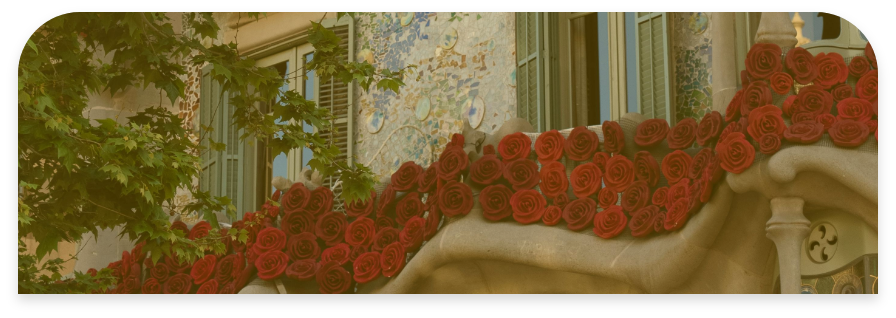
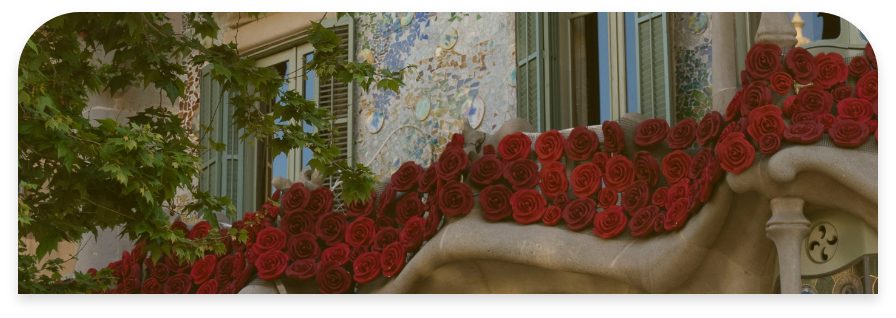
nou

diff --git a/css/santjordi.css b/css/santjordi.css
@@ -59,24 +59,19 @@ body {
     background-color: white;
     position: fixed;
     top: 15%;
-    border-radius: 40px 40px 0 0;
+    border-radius: 30px 30px 0 0;
     overflow-y: auto;
     padding-bottom: 120px;
     z-index: 10;
 }
 
-/* MARCO TIPO MÁSCARA PARA LA IMAGEN */
 .header-image-container {
     position: relative;
-    width: 90%;
-    margin: 25px auto 15px auto;
-    height: 180px;
-    background-color: #fff;
-    /* Redondeado pronunciado para simular el marco de la captura */
-    border-radius: 30px; 
-    padding: 0; /* Espacio si quieres que se vea borde blanco alrededor, pero según la imagen va ajustado */
+    width: 100%;
+    height: 30%;
+    border-radius: 30px 30px 0 0;
     overflow: hidden;
-    box-shadow: 0px 8px 20px rgba(0, 0, 0, 0.12);
+    top: -5%;
 }
 
 .header-img {
@@ -84,26 +79,25 @@ body {
     height: 100%;
     object-fit: cover;
     display: block;
-    /* Efecto de máscara/filtro para que el texto blanco resalte */
-    filter: brightness(0.8); 
 }
 
 .header-title {
     position: absolute;
-    top: 50%;
+    top: 55%;
     left: 50%;
     transform: translate(-50%, -50%);
     color: white;
     font-family: 'Kepler', serif;
-    font-size: 30px;
+    font-size: 34px;
     width: 85%;
     text-align: center;
     line-height: 1.1;
     text-shadow: 2px 2px 8px rgba(0,0,0,0.8);
-    pointer-events: none; /* Evita que el texto interfiera con clics */
+    pointer-events: none;
 }
 
-/* INFO CONTENT - RESPONSIVO */
+/* INFORMACIO */
+
 .info-content {
     padding: 15px 8%;
 }
@@ -116,7 +110,7 @@ body {
 
 .info-icon {
     width: 32px;
-    height: 32px;
+    height: 32%;
     margin-right: 20px;
     flex-shrink: 0;
 }
@@ -134,7 +128,8 @@ body {
     color: #000;
 }
 
-/* SECTIONS (Coordinador / Participants) */
+/* SECTIONS */
+
 .section-container {
     margin-bottom: 30px;
 }
@@ -143,12 +138,14 @@ body {
     display: flex;
     align-items: center;
     margin-bottom: 15px;
+    background-color: greenyellow;
 }
 
 .section-icon {
-    width: 24px;
+    width: 28px;
     margin-right: 15px;
     flex-shrink: 0;
+    background-color: red;
 }
 
 .section-header h3 {
@@ -207,6 +204,7 @@ body {
 }
 
 /* BOTÓ - RESPONSIVO */
+
 .button-container {
     margin: 20px 0;
     display: flex;
@@ -227,7 +225,7 @@ body {
     cursor: pointer;
 }
 
-/* BOTONS SUPERIOR */
+/* BOTON SUPERIOR */
 
 .flecha {
     width: 40px;
@@ -242,7 +240,7 @@ body {
     position: relative;
 }
 
-/* BARRA MENÚ - NO TOCAR LOGICA */
+/* BARRA MENÚ */
 
 .barra {
     width: 100vw;
@@ -310,7 +308,7 @@ body {
     left: 12%;
 }
 
-/* LÓGICA ACTIVOS */
+/* VINCULOS APARTATS */
 #pg2grups .barra { background-image: url(../img/fondmenu-grups.png); }
 #pg2grups .home { background-image: url(../img/home-groc.png); }
 #pg2grups .grups { background-image: url(../img/grups-blanc.png); }

diff --git a/html/santjordi.html b/html/santjordi.html
@@ -16,9 +16,8 @@
                 <h1 class="header-title">Sortida per Sant Jordi</h1>
             </div>
 
-            <!-- Contenido de la información -->
             <div class="info-content">
-                <!-- Dia i hora -->
+               
                 <div class="info-item">
                     <img src="../img/icon-reloj.png" alt="Reloj" class="info-icon">
                     <div class="info-text">
@@ -27,7 +26,6 @@
                     </div>
                 </div>
 
-                <!-- Ubicació -->
                 <div class="info-item">
                     <img src="../img/icon-ubi.png" alt="Ubicació" class="info-icon">
                     <div class="info-text">
@@ -36,7 +34,6 @@
                     </div>
                 </div>
 
-                <!-- Coordinador -->
                 <div class="section-container">
                     <div class="section-header">
                         <img src="../img/icon-persona.png" alt="Icon Persona" class="section-icon">
@@ -54,7 +51,6 @@
                     </div>
                 </div>
 
-                <!-- Participants -->
                 <div class="section-container">
                     <div class="section-header">
                         <img src="../img/icon-persona.png" alt="Icon Persona" class="section-icon">
@@ -74,8 +70,6 @@
                         </div>
                     </div>
                 </div>
-
-                <!-- Botó Inscriure's -->
                 <div class="button-container">
                     <button class="btn-inscriure">Inscriure's</button>
                 </div>
@@ -84,7 +78,6 @@
     </div>
 
     <div class="botons">
-        <!-- He añadido el <a> envolviendo la flecha para que puedas poner el enlace -->
         <a href="" class="flecha"></a>
     </div>
 
